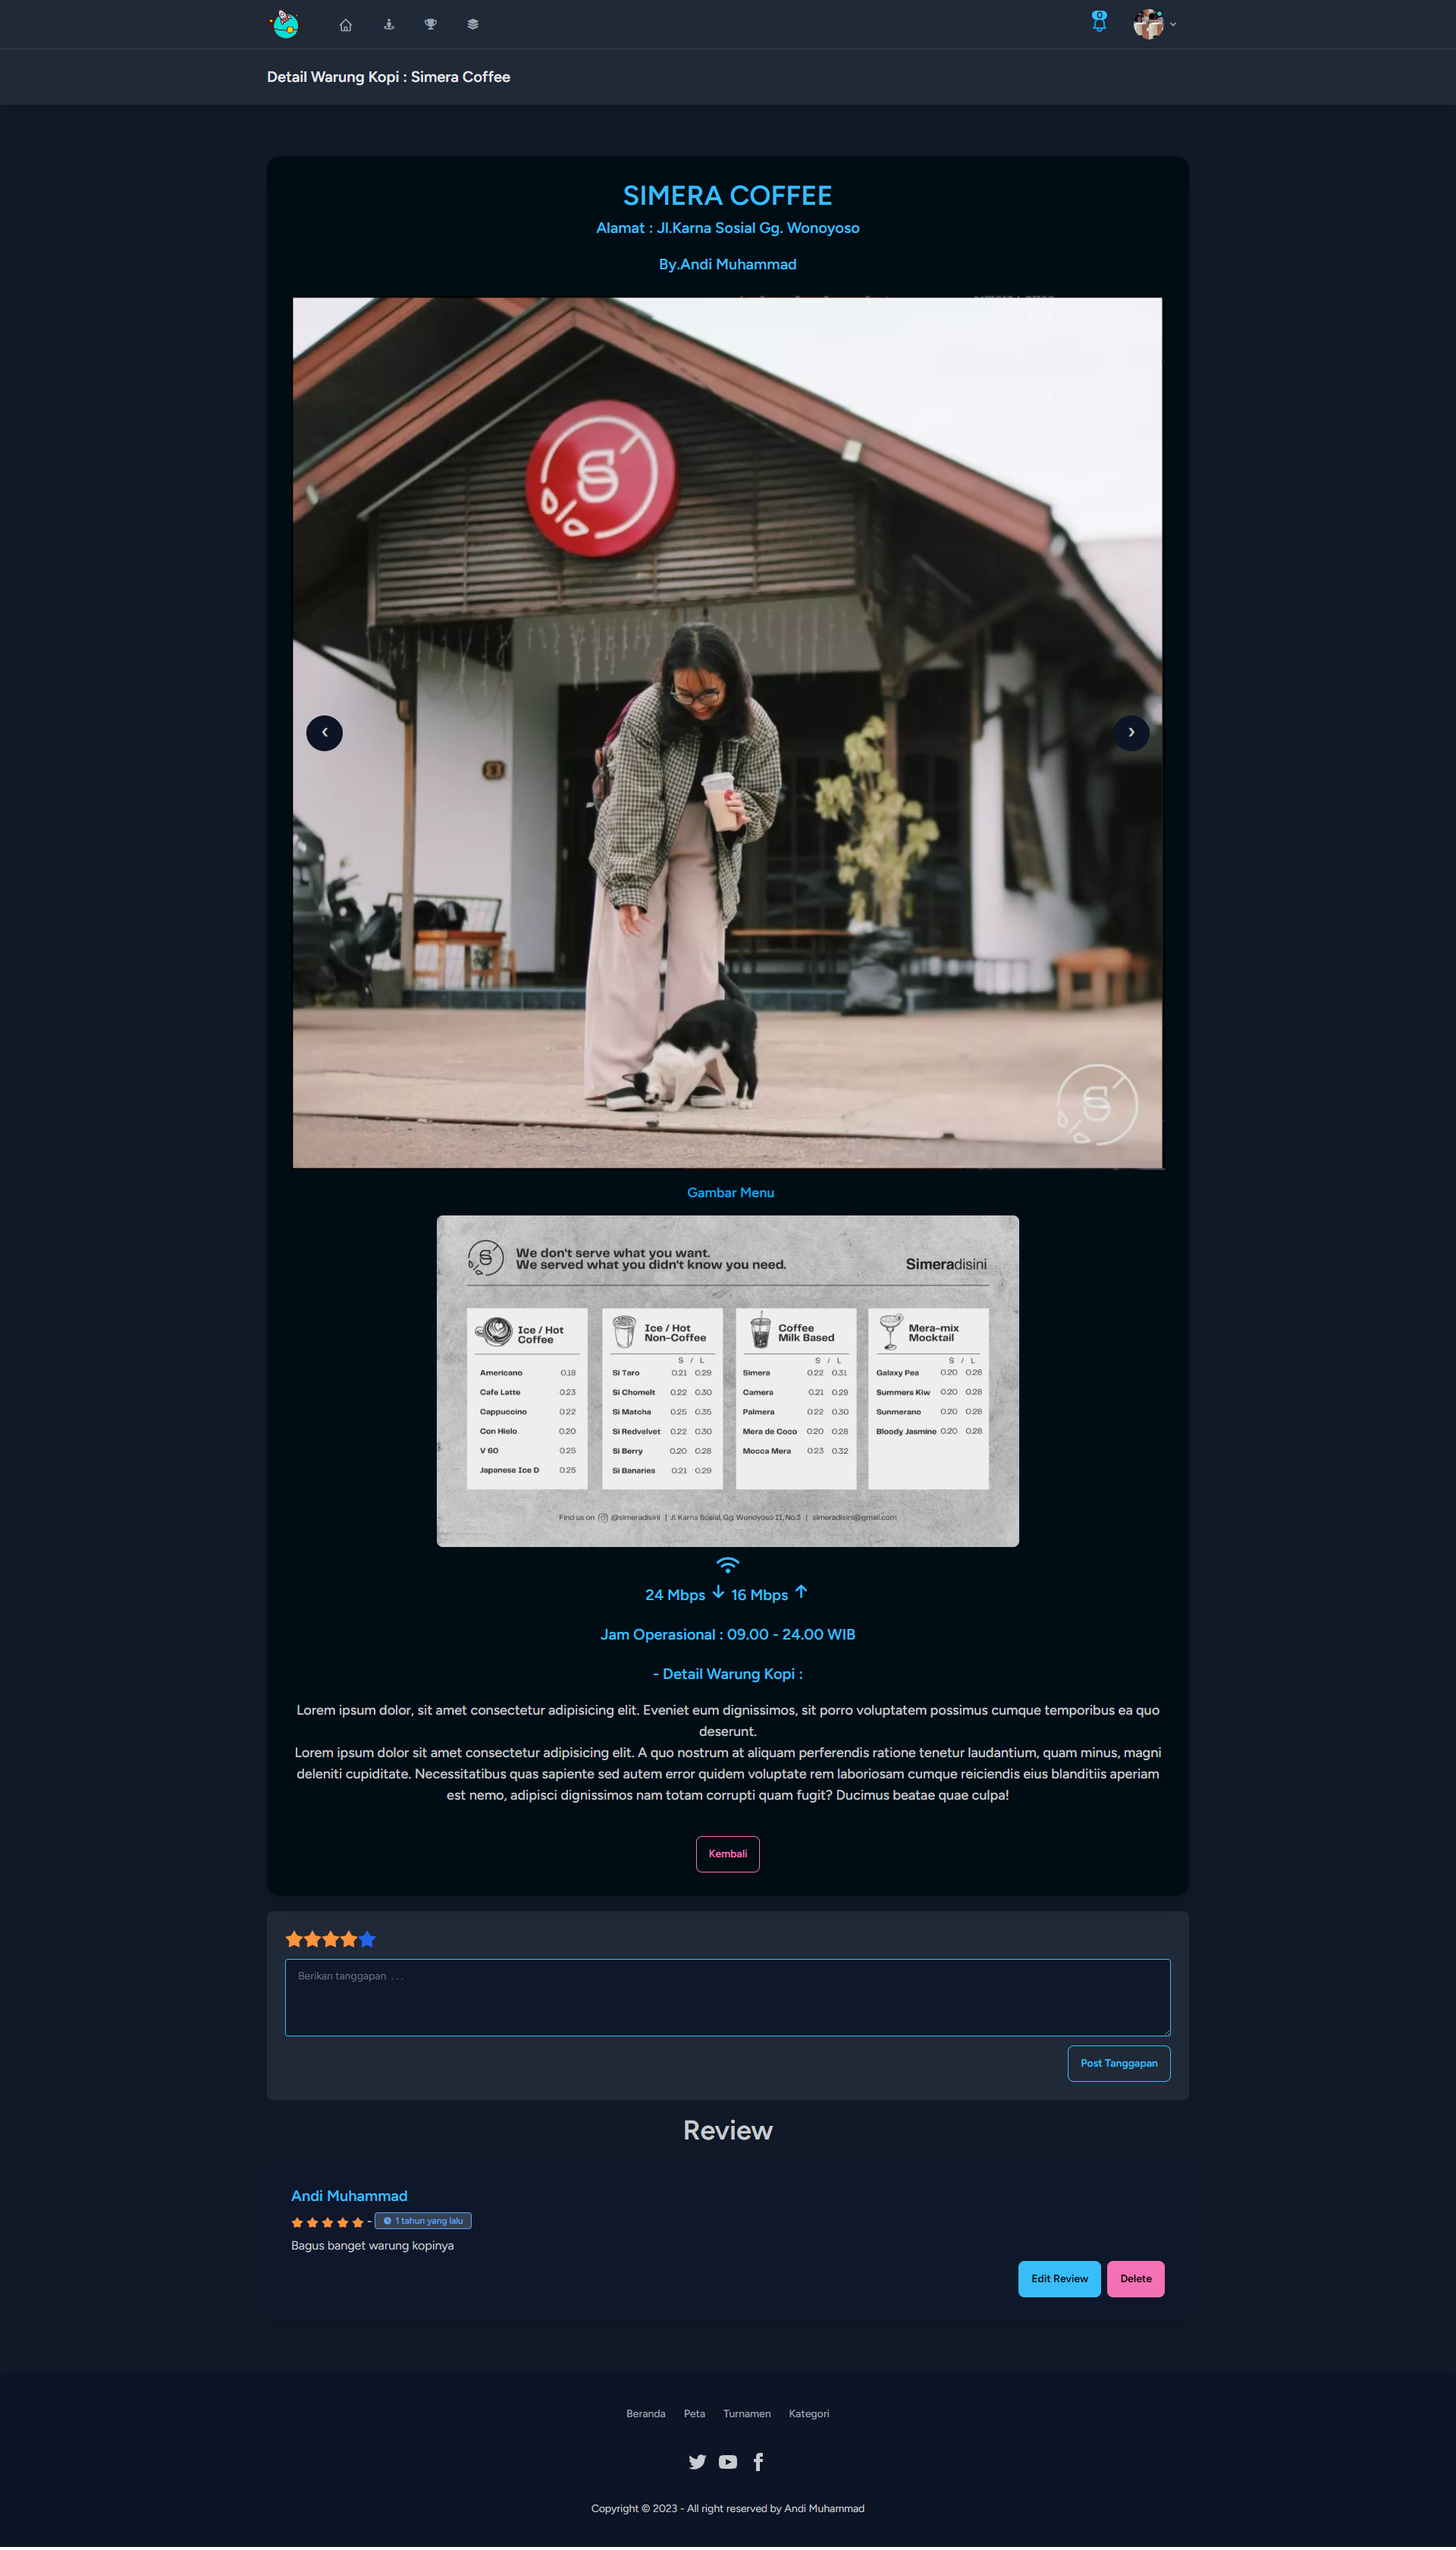
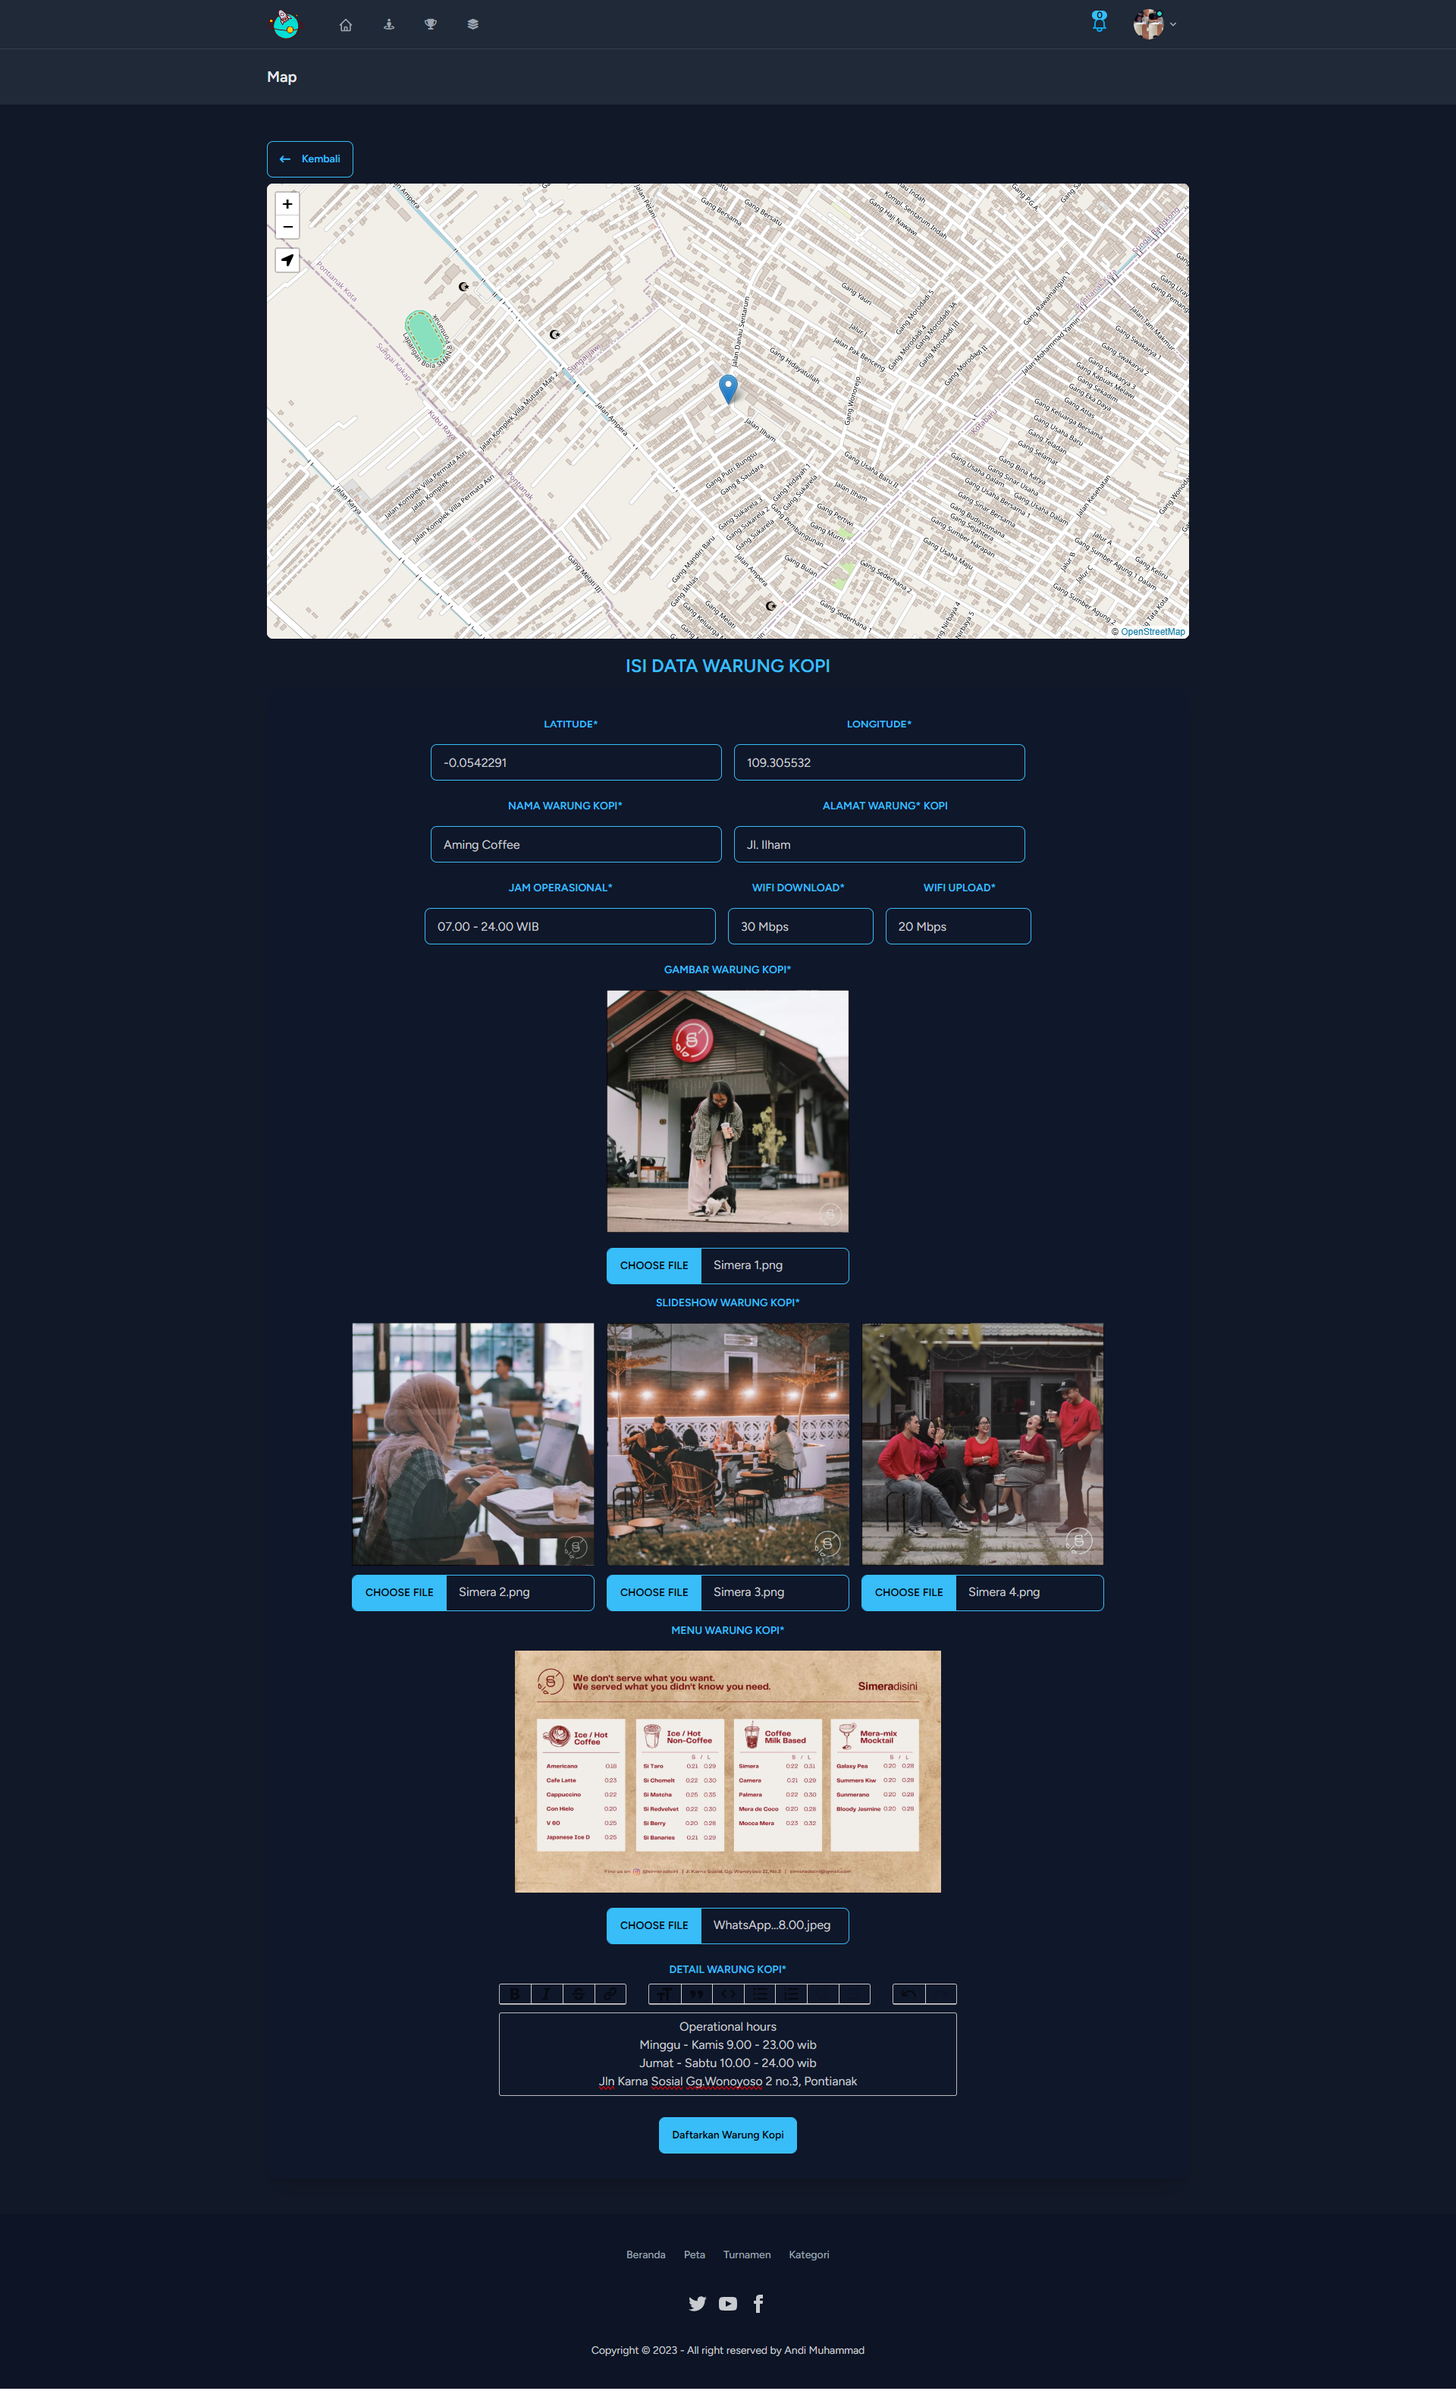
Update Esports System Documentation

diff --git a/app/documentation/page.tsx b/app/documentation/page.tsx
@@ -1,0 +1,113 @@
+import Link from "next/link";
+import Header from "@/components/Header";
+import { IconBook } from "@tabler/icons-react";
+
+const projects = [
+  {
+    slug: "rusunawa",
+    title: "Sistem Informasi Rusunawa Dinas Perumahan dan Permukiman Kota Pontianak",
+    stack: ["Laravel 10", "Livewire", "Filament", "MySQL"],
+    description:
+      "An Information System to facilitate public communication and information, provide transparent information for prospective Rusunawa residents, and increase the efficiency of internal data management such as room data, occupants, payments and resident complaints.",
+    timeline: "April 2023 - August 2024",
+    site: "https://rusunkite.pontianak.go.id/",
+    isPrivate: false,
+  },
+  {
+    slug: "retribusi",
+    title: "Sistem Informasi Retribusi Daerah Provinsi Kalimantan Barat",
+    stack: ["Laravel 8", "Bootstrap 5", "MySQL"],
+    description:
+      "An Information System designed to assist the West Kalimantan Province Regional Revenue Agency in monitoring and managing regional levy receipts online and in real-time.",
+    timeline: "May 2022 - February 2023",
+    site: null,
+    isPrivate: true,
+  },
+  {
+    slug: "esports-system",
+    title: "E-Sports Tournament System",
+    stack: ["Next.js", "Challonge Integration", "TailwindCSS", "MongoDB"],
+    description:
+      "A thesis project for managing and organizing e-sports tournaments, complete with player registration, bracket integration, and tournament statistics.",
+    timeline: "March 2024 - July 2024",
+    site: 'https://gamersworld-ptk.elmarsdigitech.com/',
+    isPrivate: false,
+  },
+];
+
+export default function DocumentationPage() {
+  return (
+    <div className='px-2 max-w-4xl px-4'>
+      <Header />
+      <div className='divide-y divide-gray-200 dark:divide-gray-700'>
+        <div className='space-y-2 py-6 md:space-y-5'>
+          <h1 className='text-3xl font-extrabold leading-9 tracking-tight text-gray-900 dark:text-gray-100 sm:text-4xl sm:leading-10 md:text-5xl md:leading-14'>
+            Documentation
+          </h1>
+        </div>
+
+        <ul className='divide-y divide-gray-200 dark:divide-gray-700'>
+          {projects.map((project, idx) => (
+            <li key={idx} className='py-6'>
+              <article>
+                <div className='space-y-2 xl:grid xl:grid-cols-4 xl:items-baseline xl:space-y-0'>
+                  <dl>
+                    <dt className='sr-only'>Published on</dt>
+                    <dd className='text-base font-medium leading-6 text-gray-500 dark:text-gray-400'>
+                      <time>{project.timeline}</time>
+                    </dd>
+                  </dl>
+                  <div className='space-y-5 xl:col-span-3'>
+                    <div className='space-y-4'>
+                      <div>
+                        <h2 className='text-2xl font-bold leading-8 tracking-tight'>
+                          <span className='text-gray-900 dark:text-gray-100'>
+                            {project.title}
+                          </span>
+                        </h2>
+                        <div className='flex flex-wrap'>
+                          {project.stack.map((tech, techIdx) => (
+                            <span
+                              key={techIdx}
+                              className='mr-3 text-sm font-medium uppercase text-primary hover:text-sky-600 dark:hover:text-sky-400'
+                            >
+                              {tech}
+                            </span>
+                          ))}
+                        </div>
+                      </div>
+                      <div className='prose max-w-none text-gray-300'>
+                        {project.description}
+                      </div>
+                    </div>
+                    <div className='flex gap-4 text-base font-medium leading-6 text-destructive'>
+                      {project.site && !project.isPrivate ? (
+                        <Link
+                          href={project.site}
+                          className='text-primary hover:text-sky-600 dark:hover:text-sky-400'
+                          target='_blank'
+                          rel='noopener noreferrer'
+                        >
+                          Check site &rarr;
+                        </Link>
+                      ) : (
+                        <p className='text-red-500'>Web is private</p>
+                      )}
+                      <p className='text-white'>|</p>
+                      <Link
+                        href={`/documentation/${project.slug}`}
+                        className='flex items-center gap-2 text-emerald-400 hover:text-emerald-500'
+                      >
+                        Documentation <IconBook className='size-5' />
+                      </Link>
+                    </div>
+                  </div>
+                </div>
+              </article>
+            </li>
+          ))}
+        </ul>
+      </div>
+    </div>
+  );
+}

diff --git a/components/Header.tsx b/components/Header.tsx
@@ -1,11 +1,11 @@
 'use client';
-import { useState } from 'react';
-import { motion } from 'framer-motion';
+
 import {
+  IconBook,
   IconBrandGmail,
   IconBrandWhatsapp,
+  IconHome,
   IconMenu2,
-  IconX
 } from '@tabler/icons-react';
 import Image from 'next/image';
 import Link from 'next/link';
@@ -19,8 +19,6 @@ import {
 } from './ShadCN/Sheet';
 
 export default function Header() {
-  const [menuOpen, setMenuOpen] = useState(false);
-
   return (
     <header className='supports-backdrop-blur left-0 right-0 top-0 z-50 bg-card border-b border-primary py-4 backdrop-blur dark:bg-dark/75'>
       <div className='mx-auto flex max-w-4xl items-center justify-between px-3 xl:max-w-5xl xl:px-0'>
@@ -59,28 +57,47 @@ export default function Header() {
           </SheetTrigger>
           <SheetContent>
             <SheetHeader>
-              <SheetTitle>Feel free to contact me</SheetTitle>
+              <SheetTitle className='text-xl'>Feel free to contact me</SheetTitle>
               <SheetDescription>
-                <div className='flex flex-col items-start gap-4 mt-2'>
-                  <p className='flex items-center gap-2 text-lg text-white'>
-                    <IconBrandGmail
-                      stroke={1}
-                      className='text-red-500 size-6'
-                    />
-                    my.andimhmmad14@gmail.com
-                  </p>
-                  <p className='flex items-center gap-2 text-lg text-white'>
-                    <IconBrandWhatsapp
-                      stroke={1}
-                      className='text-green-500 size-6'
-                    />
-                    +62 821 - 5790 - 2445
-                  </p>
+                <div className='flex flex-col items-start gap-4 mt-2 divide-y divide-gray-700'>
+                  {/* Kontak */}
+                  <div className='flex flex-col items-start gap-2 pt-4 w-full'>
+                    <p className='flex items-center gap-2 text-lg text-white'>
+                      <IconBrandGmail stroke={1} className='text-red-500 size-6' />
+                      my.andimhmmad14@gmail.com
+                    </p>
+                    <p className='flex items-center gap-2 text-lg text-white'>
+                      <IconBrandWhatsapp stroke={1} className='text-green-500 size-6' />
+                      +62 821 - 5790 - 2445
+                    </p>
+                  </div>
+
+                  {/* Menu Navigasi */}
+                  <div className='flex flex-col items-start gap-4 w-full '>
+                    <Link
+                      href='/'
+                      className='text-lg text-white hover:text-sky-400 transition-colors duration-150 mt-4 flex items-center gap-2'
+                    >
+                      <IconHome stroke={1} className='text-blue-500 size-6' />
+                      Homepage
+                    </Link>
+                    <Link
+                      href='/documentation'
+                      className='text-lg text-white hover:text-sky-400 transition-colors duration-150 flex items-center gap-2'
+                    >
+                      <IconBook stroke={1} className='text-green-500 size-6' />
+                      Documentation
+                    </Link>
+                  </div>
+
+
+
                 </div>
               </SheetDescription>
             </SheetHeader>
           </SheetContent>
         </Sheet>
+
       </div>
     </header>
   );

diff --git a/app/documentation/esports-system/page.tsx b/app/documentation/esports-system/page.tsx
@@ -1,7 +1,7 @@
 import ProjectLayout from '@/components/ProjectLayout';
 
 const esportsProject = {
-  title: 'E-Sports Tournament Information System and Gaming Caféin Pontianak City Based on Website',
+  title: 'E-Sports Tournament Information System and Gaming Café in Pontianak City Based on Website',
   author: 'Andi Muhammad Fadhil Masyhun Arham',
   duration: 'Desember 2022 - January 2024',
   summary: 'A website-based information system designed to help gamers find information about tournaments and coffee shop references for gaming in Pontianak City.This system includes locations and reviews from gamers who have visited the coffee shops.Additionally, it aims to assist coffee shops in Pontianak City in organizing gaming tournaments.',
@@ -44,13 +44,33 @@ const esportsProject = {
     },
     {
       image: '/static/images/projects/esports-system/Slide5.png',
-      title: 'Gaming Cafés - Details',
-      caption: 'Detail of Gaming Cafés with Form Review.'
+      title: 'Seamlessly Add New Gaming Cafés',
+      caption: 'Admins and business accounts can effortlessly add new gaming café locations using interactive Leaflet JS maps.'
     },
     {
       image: '/static/images/projects/esports-system/Slide6.png',
+      title: 'Gaming Cafés - Details',
+      caption: 'Detail of Gaming Cafés with Review.'
+    },
+    {
+      image: '/static/images/projects/esports-system/Slide7.png',
       title: 'Tournament Page',
       caption: 'Shows all tournament on website.'
+    },
+    {
+      image: '/static/images/projects/esports-system/Slide8.png',
+      title: 'Tournament Details',
+      caption: 'Get a comprehensive view of every tournament—participants, schedules, and results, all in one place.'
+    },
+    {
+      image: '/static/images/projects/esports-system/Slide9.png',
+      title: 'Dashboard for Tournament Organizers',
+      caption: 'Visualize your tournaments with dynamic charts and insights designed to help organizers stay in control.'
+    },
+    {
+      image: '/static/images/projects/esports-system/Slide10.png',
+      title: 'Dashboard for Tournament Organizers',
+      caption: 'Easily manage tournaments with seamless integration to Challonge brackets—organize, monitor, and update in real time.'
     },
   ],
   flow: 'User → Register → View Tournament Info → Register Tim → Verified Team → Join Tournament → Play Tournament → Win Tournament',

diff --git a/components/ActernityUI/FloatingDocks.tsx b/components/ActernityUI/FloatingDocks.tsx
@@ -72,6 +72,7 @@ const FloatingDockMobile = ({
                 <Link
                   href={item.href}
                   key={item.title}
+                  aria-label={item.title}
                   className='h-10 w-10 rounded-full bg-gray-50 dark:bg-neutral-900 flex items-center justify-center'
                 >
                   <div className='h-4 w-4'>{item.icon}</div>
@@ -166,7 +167,7 @@ function IconContainer({
   const [hovered, setHovered] = useState(false);
 
   return (
-    <Link href={href}>
+    <Link href={href} aria-label={title}>
       <motion.div
         ref={ref}
         style={{ width, height }}

diff --git a/components/Tags.tsx b/components/Tags.tsx
@@ -16,7 +16,7 @@ const Tags = () => {
         </p>
       </div>
 
-      <div className='popular-tags grid grid-cols-3 gap-4 py-6 xl:grid-cols-6'>
+      <div className='popular-tags grid grid-cols-3 gap-4 py-6 xl:grid-cols-6 text-white brightness-110'>
         <Link
           href='https://nextjs.org/'
           className={cn(`bg-blue-800`, className)}

diff --git a/app/page.tsx b/app/page.tsx
@@ -21,7 +21,7 @@ export const metadata: Metadata = {
 
 export default function Home() {
   return (
-    <main className='w-full max-w-4xl'>
+    <main className='w-full max-w-4xl px-4'>
       <Header />
       <div className='mb-auto mt-6'>
         <div className='dark:divide-gray-700'>
